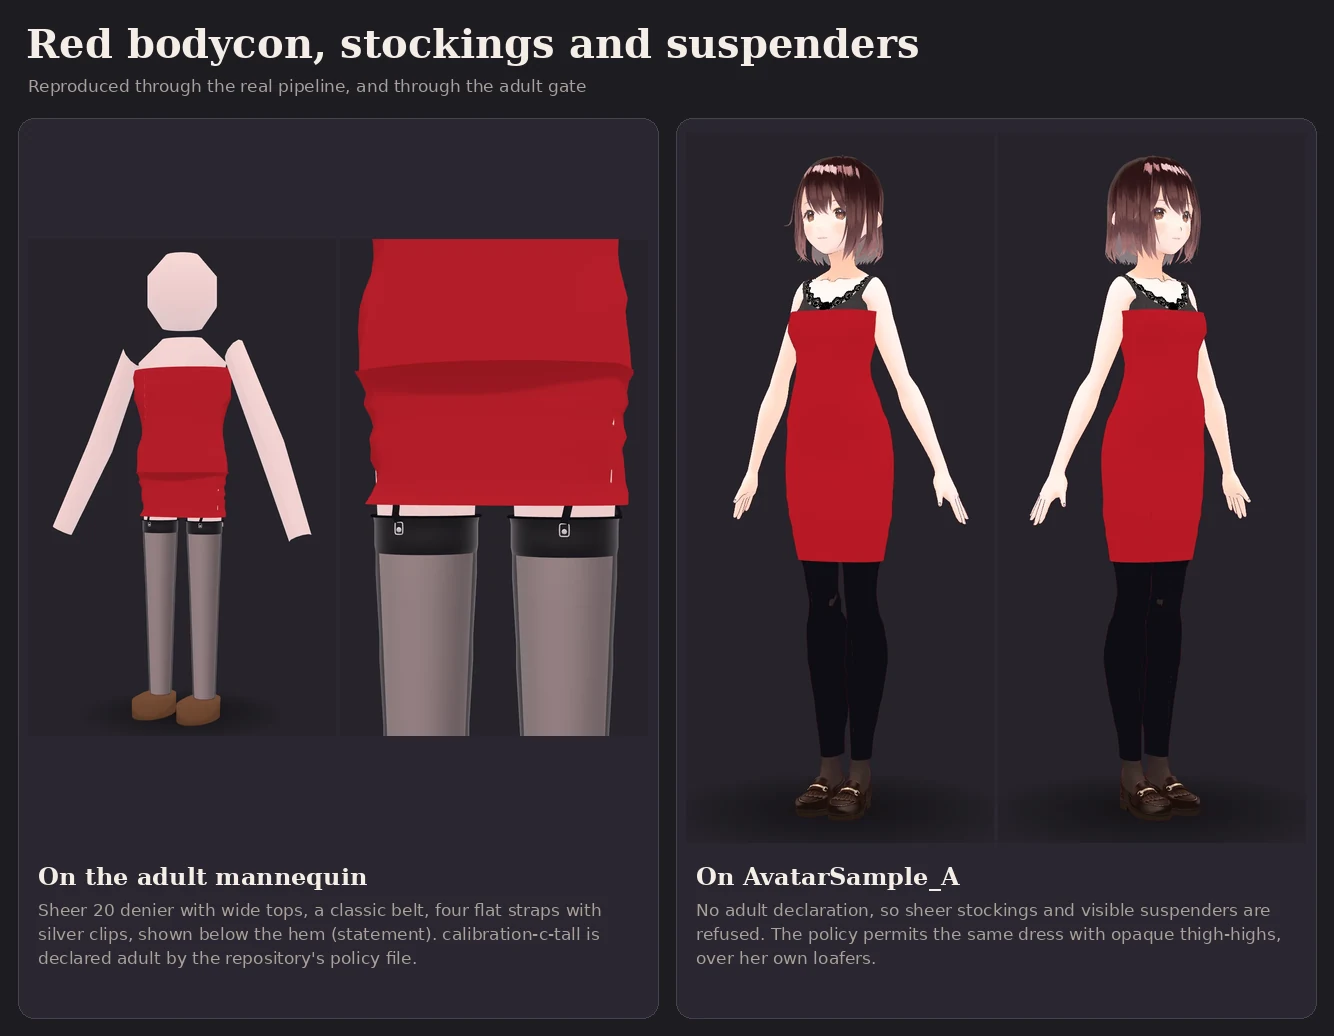
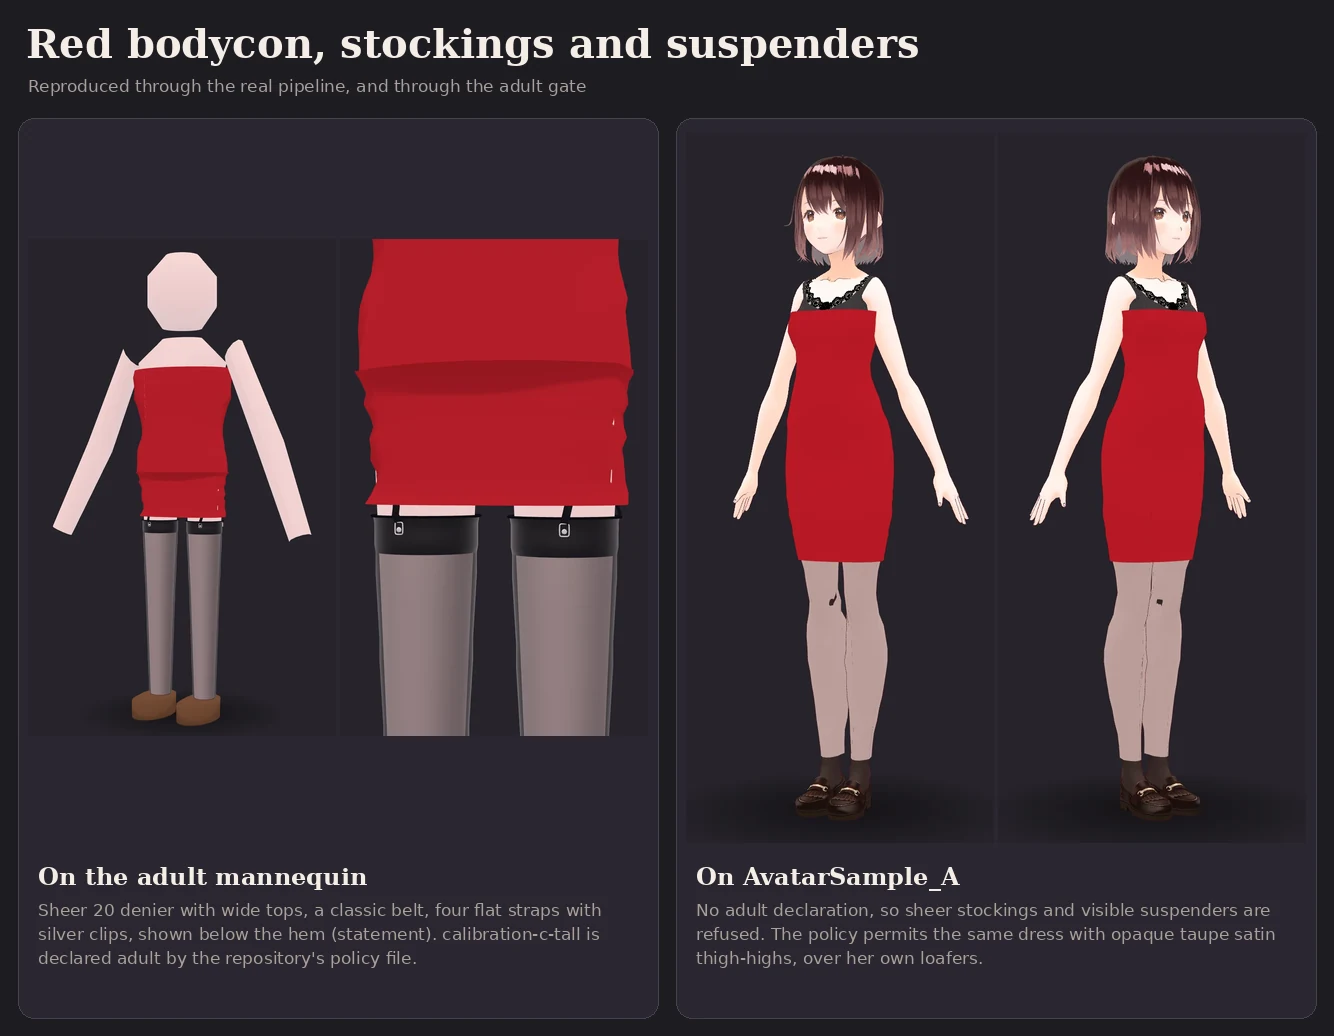
S1: reference look on AvatarSample A in light taupe satin stockings
The permitted form of the red bodycon reference look now wears light
stockings, as the reference does, instead of black. Sheer is gated for an
avatar with no adult declaration, so they are opaque taupe with a satin
sheen: the colour and the sheen, but nothing is seen through them. "taupe"
joins the colour vocabulary; no gallery prompt uses it, so no hash moves.

Light stockings show two defects that black hid, now recorded in the README
and in phase L6 of the lingerie plan:
- at the inner thigh, where her legs nearly touch, the painted body comes
  through
- at the ankle, where the stockings stop above the foot, her painted tights
  show

Claude-Session: https://claude.ai/code/session_018LNMKVFV8MNjS6J1EiQ1cy

diff --git a/tools/gallery/red_dress.py b/tools/gallery/red_dress.py
@@ -10,7 +10,7 @@ like any request:
 
     Full look       calibration-c-tall   declared adult in assets/calibration/policy.json
     Same request    AvatarSample_A       no declaration: refused, and the reason is printed
-    Permitted look  AvatarSample_A       the same dress with opaque thigh-highs, her own loafers
+    Permitted look  AvatarSample_A       the same dress, opaque taupe satin thigh-highs, her loafers
 
 The tool makes no declaration of its own. The mannequin's comes from the
 repository's policy file, and the library avatar's from its provenance manifest,
@@ -56,9 +56,10 @@ FULL = {
                       "hardware": {"color": "silver"}, "visibility": "straps_only"},
     "reveal": {"level": "statement"},
 }
-#: What the policy permits on an avatar with no declaration: the dress, opaque stockings. Her own
-#: brown loafers stay on, as in the reference, so no shoes are asked for.
-PERMITTED = {"prompt": "red bodycon mini dress + black thigh-high stockings"}
+#: What the policy permits on an avatar with no declaration: the dress, and light stockings that are
+#: opaque. Taupe satin is the nearest the gate allows to sheer nude: the colour and a soft sheen, with
+#: nothing seen through it. Her own brown loafers stay on, as in the reference, so no shoes are asked for.
+PERMITTED = {"prompt": "red bodycon mini dress + taupe satin thigh-high stockings"}
 
 
 async def build(out: Path) -> dict:
@@ -148,7 +149,8 @@ def sheet(out: Path, looks: dict, target: Path) -> None:
                  "repository's policy file."),
         "permitted": (f"On {AVATAR}",
                       "No adult declaration, so sheer stockings and visible suspenders are refused. "
-                      "The policy permits the same dress with opaque thigh-highs, over her own loafers."),
+                      "The policy permits the same dress with opaque taupe satin thigh-highs, "
+                      "over her own loafers."),
     }
 
     def crop(path: Path, box) -> Image.Image:

diff --git a/wardrobe/pipeline/plan_outfit.py b/wardrobe/pipeline/plan_outfit.py
@@ -58,6 +58,7 @@ COLORS: dict[str, str] = {
     "neon pink": "#ff2fa0",
     "champagne": "#e6d2ae",
     "nude": "#d9b39a",
+    "taupe": "#b4a298",
     "neon green": "#39ff14",
     "neon yellow": "#e8ff1a",
     "neon orange": "#ff6a13",

diff --git a/README.md b/README.md
@@ -138,7 +138,7 @@ curl -X POST localhost:8080/v1/jobs -H 'content-type: application/json' -d '{
 
 ### Reference look: red bodycon, stockings and suspenders
 
-![The red bodycon reference look: on the adult mannequin with sheer stockings, a suspender belt and flat straps clipped below the hem; on AvatarSample A with the same dress and opaque thigh-highs over her own loafers](docs/images/red-dress.webp)
+![The red bodycon reference look: on the adult mannequin with sheer stockings, a suspender belt and flat straps clipped below the hem; on AvatarSample A with the same dress and light taupe satin thigh-highs over her own loafers](docs/images/red-dress.webp)
 
 The look is a red bodycon mini dress over sheer black 20 denier stockings with
 wide tops, and a black suspender belt whose four straps show below the hem. It
@@ -150,8 +150,14 @@ pipeline, no retouching. It also shows the adult gate at work:
   walking and seated.
 - The same request for AvatarSample A is refused, because she carries no adult
   declaration: *underwear needs the avatar declared as depicting an adult*.
-- The policy does permit the same dress with opaque thigh-highs, which she
-  wears over her own loafers.
+- The policy does permit the same dress with light taupe satin thigh-highs,
+  which she wears over her own loafers. Taupe is the nearest the gate allows
+  to sheer nude: the colour and a soft sheen, but nothing is seen through
+  them.
+- Light stockings show two defects that black ones hid. At the inner thigh,
+  where her legs nearly touch, her painted body comes through as a dark mark.
+  At the ankle, where the stockings stop above the foot, her painted tights
+  show. Both are in phase L6 of the plan (stockings with feet, measured legs).
 
 The mannequin is the plain calibration form, and its ridged hip shows why a
 realistic fashion-fit form is the first step of the

diff --git a/docs/LINGERIE_UPGRADE_PLAN.md b/docs/LINGERIE_UPGRADE_PLAN.md
@@ -158,6 +158,8 @@ The hash baseline stays untouched in every phase: v1 kinds and templates keep th
   - The foot is measured by a new `foot_profile()` in `geometry_checks.py`, modelled on `arm_profile`.
   - Tights get the same option through `build_legwear(..., foot=)`.
   - If the rig has no Toes bone, keep the old ending and record a report warning.
+  - Fit the leg tubes to the measured leg sections (`lowerBody`, every 3 cm, as trousers and leggings already do), not the formula radius `hip_width × 0.2`.
+- **Seen in the reference look:** light (taupe) thigh-highs on AvatarSample A show her skin at the inner left thigh, where her legs nearly touch. They also show her painted tights between the stocking end and her loafers. Black hid both. Rebuild `docs/images/red-dress.webp` with `tools/gallery/red_dress.py` as the regression picture.
 - **Tests:** the foot is present with a closed toe; the heel is within 15 mm of the heel landmark; clearance on the fit forms; `FittedStockingTop` output is unchanged (band grip and clips identical).
 
 ### L7: Material models: physical separate from visual (M)
